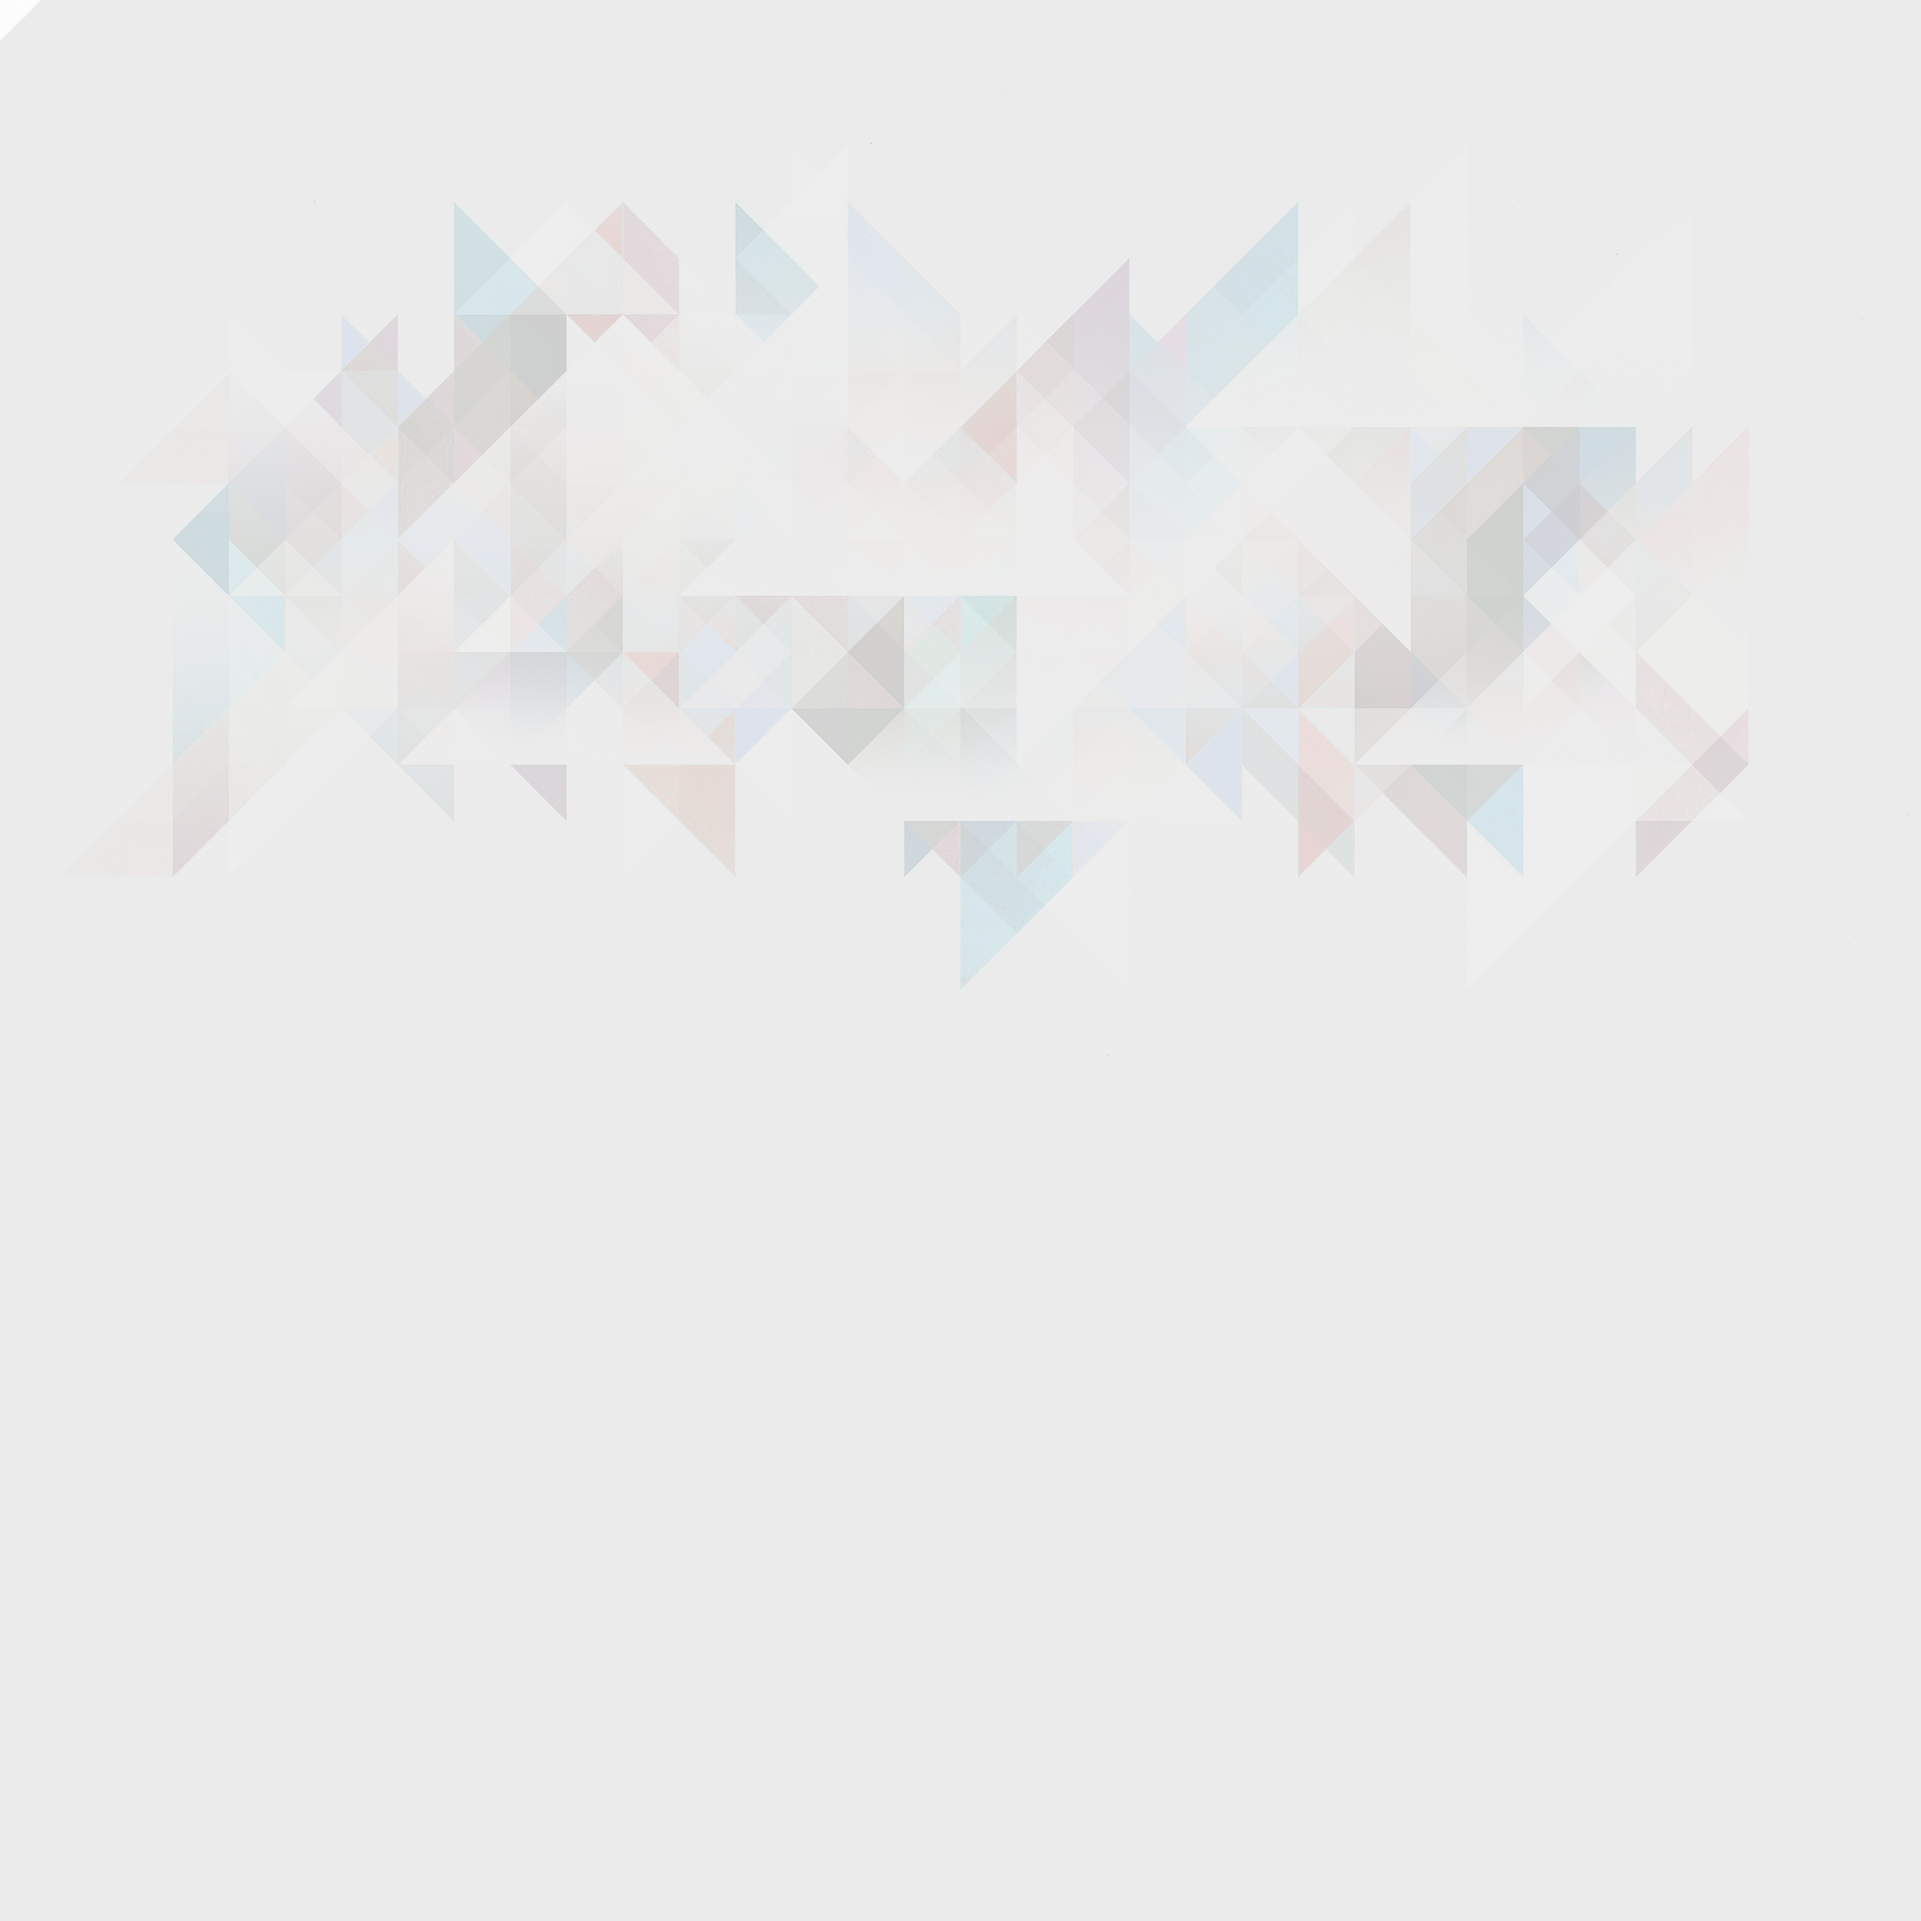
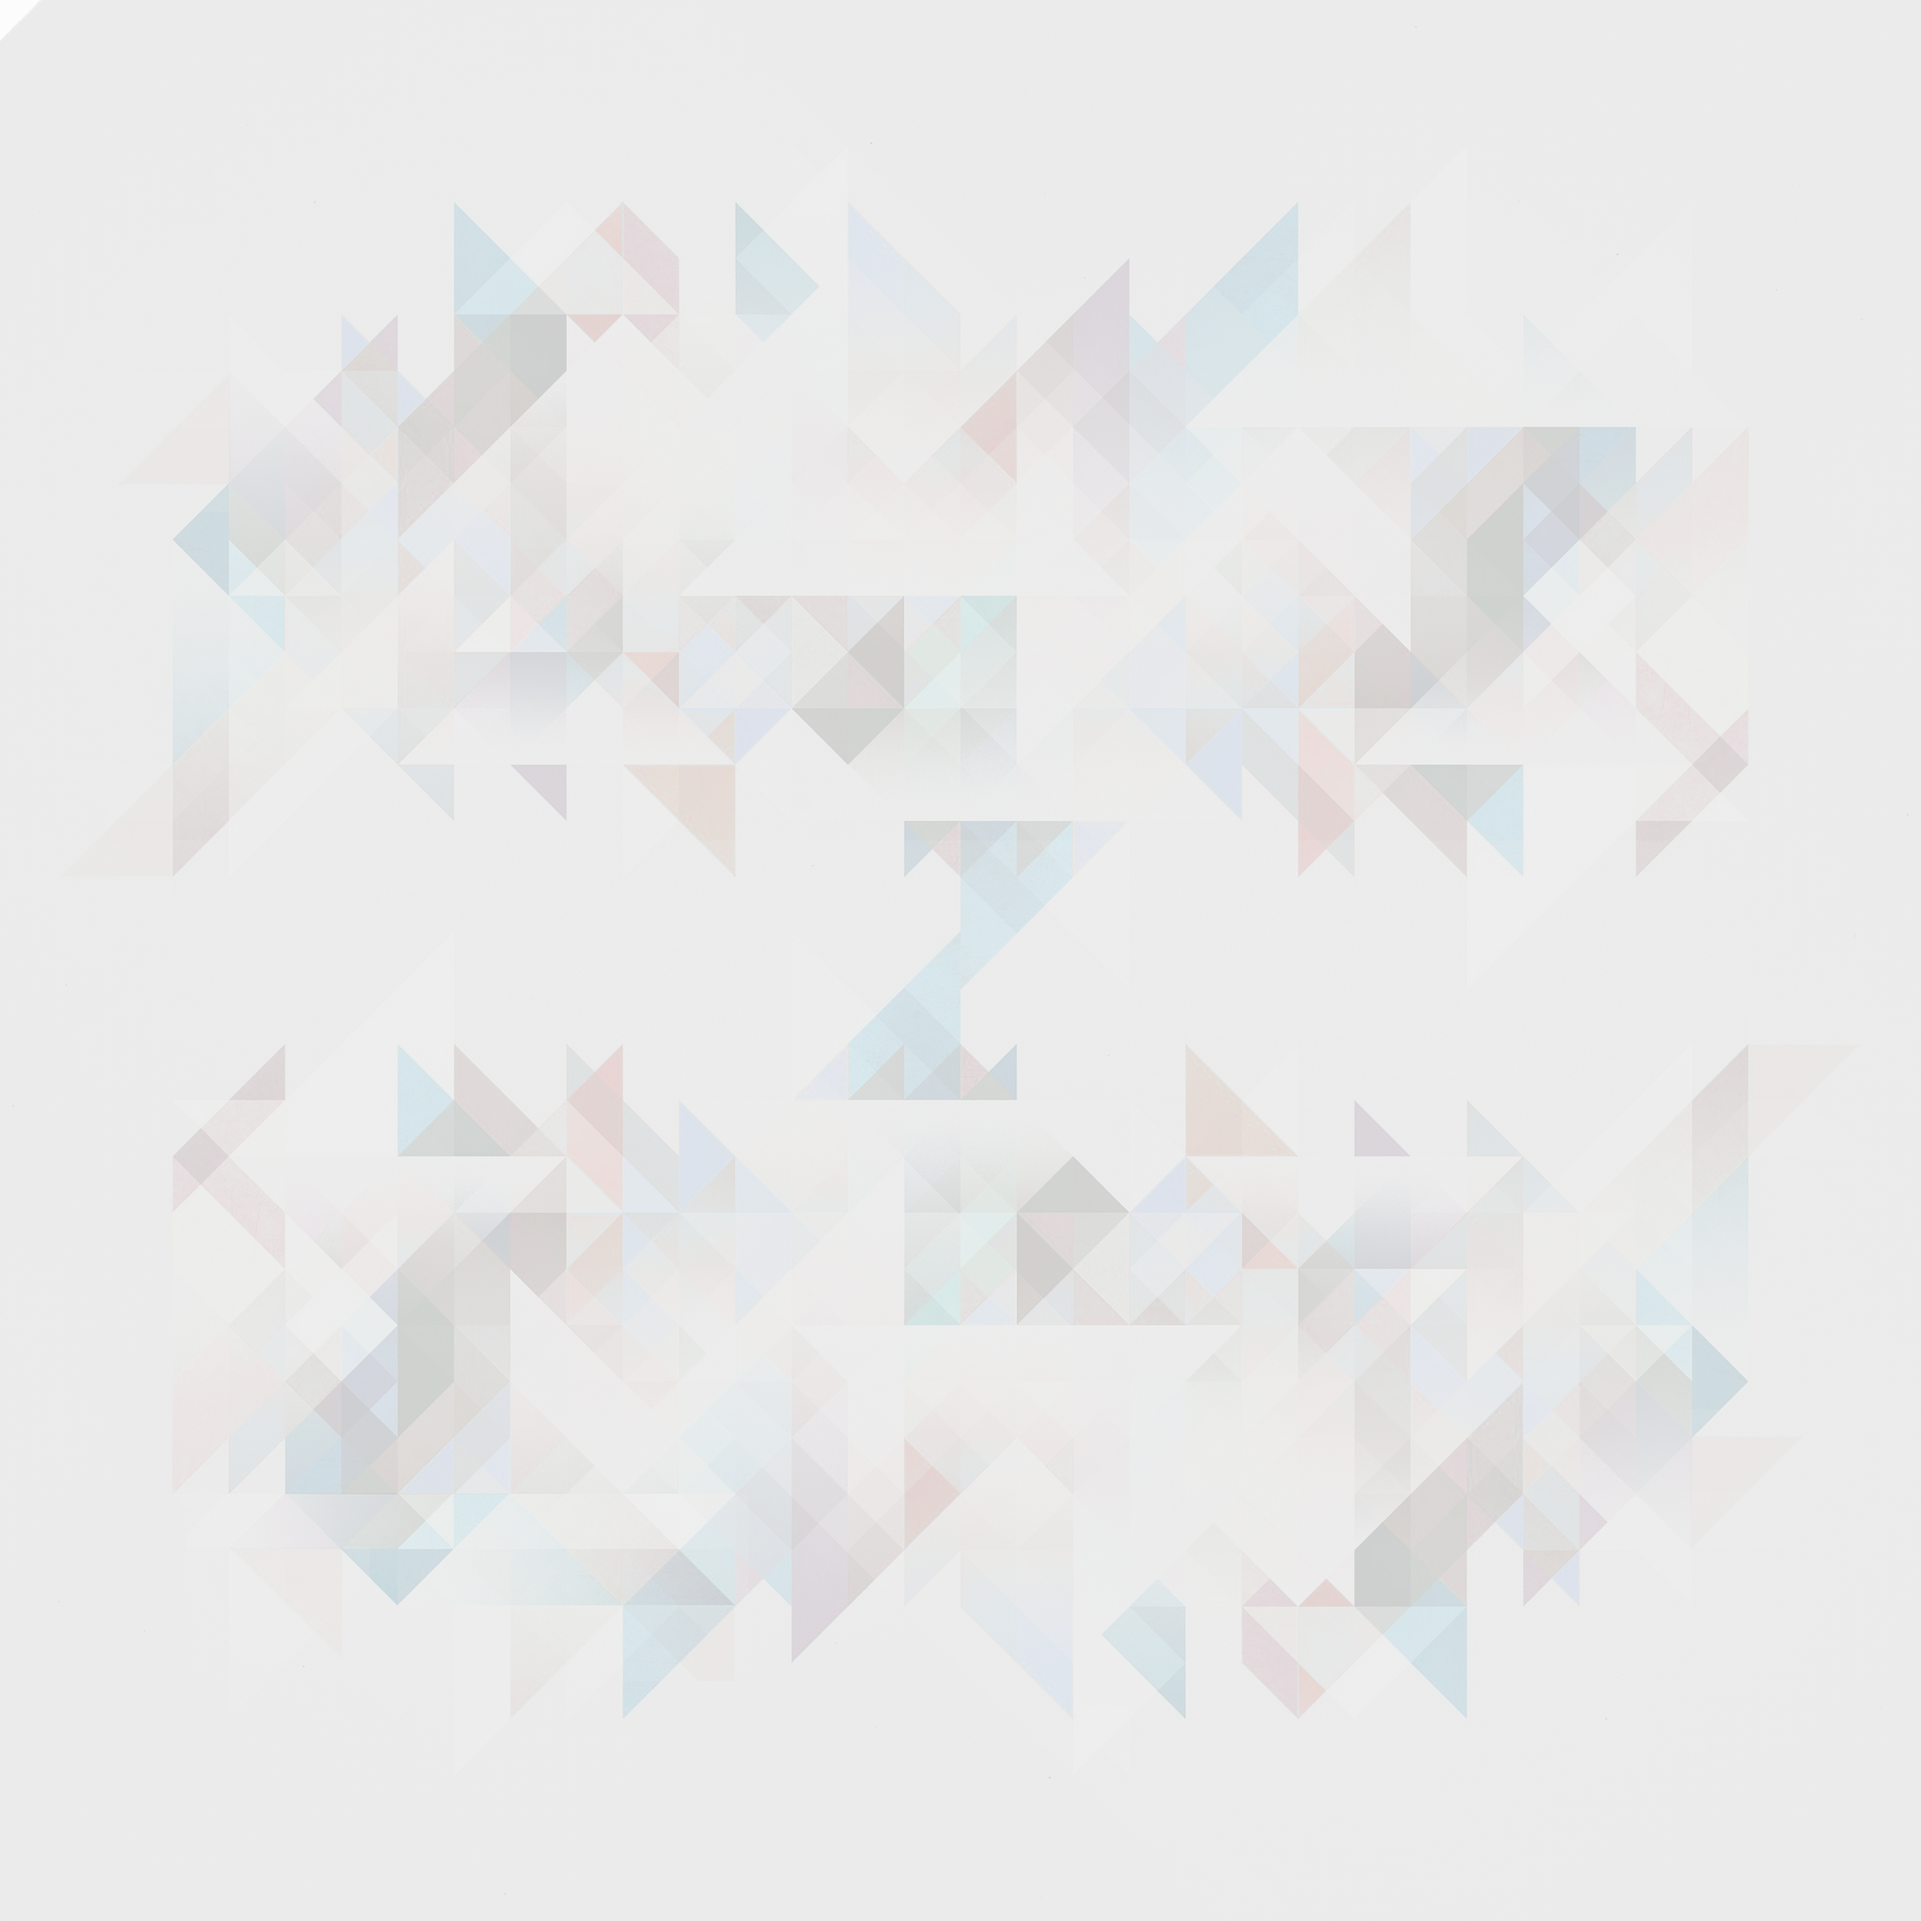
- Добавлена карта - Изменён задний фон

diff --git a/src/main/resources/templates/map.html b/src/main/resources/templates/map.html
@@ -1,0 +1,61 @@
+<!DOCTYPE html>
+<html lang="ru" xmlns:th="http://www.thymeleaf.org">
+<head>
+    <meta charset="UTF-8">
+    <meta name="viewport" content="width=device-width, initial-scale=1.0, viewport-fit=cover">
+    <title>V‑IATE — Карта</title>
+    <link href="https://fonts.googleapis.com/css2?family=Inter:wght@300;400;500;600;700&display=swap" rel="stylesheet">
+    <link href="/css/common.css" rel="stylesheet">
+    <link href="/css/schedule.css" rel="stylesheet">
+    <link href="/css/home.css" rel="stylesheet">
+    <link rel="icon" href="/images/favicon.ico">
+</head>
+<body>
+
+<header class="site-header">
+    <div class="header-container">
+        <a href="/" class="logo-link">
+            <img src="/images/logo.png" alt="V-IATE" class="logo-img">
+        </a>
+        <nav class="main-nav">
+            <ul class="nav-list">
+                <li><a href="/" class="nav-link active">Главная</a></li>
+                <li><a href="/group" class="nav-link">Расписание</a></li>
+                <li><a href="/course_lobby" class="nav-link">Курсы</a></li>
+                <li><a href="/journal" class="nav-link">Журналы</a></li>
+            </ul>
+        </nav>
+        <div class="user-actions">
+            <a th:if="${user_name == null}" href="/login" class="btn-login">Вход</a>
+            <div th:if="${user_name != null}" class="user-profile">
+                <span class="user-greeting" th:text="${user_name}"></span>
+                <a href="/profile" class="profile-link">
+                    <img src="/images/user.png" alt="Профиль" class="user-avatar">
+                </a>
+                <a href="/logout" class="logout-link">Выйти</a>
+            </div>
+        </div>
+    </div>
+</header>
+
+<main class="main-content">
+    <div class="groups-page">
+        <div class="map-container">
+            <img class="map-image" src="images/map_scheme.png">
+        </div>
+    </div>
+</main>
+
+<footer class="site-footer">
+    <div class="footer-inner">
+        <p class="copyright">© 2025–2026 V‑IATE — Студенческий портал</p>
+        <div class="footer-links">
+            <a href="#">О проекте</a>
+            <a href="#">Поддержка</a>
+            <a href="#">Конфиденциальность</a>
+        </div>
+    </div>
+</footer>
+
+</body>
+</html>

diff --git a/src/main/resources/static/css/home.css b/src/main/resources/static/css/home.css
@@ -108,6 +108,10 @@
     display: grid;
     grid-template-columns: repeat(auto-fill, minmax(300px, 1fr));
     gap: 1.5rem;
+    max-height: 70vh;
+    overflow-y: auto;
+    scrollbar-color: rgba(255, 255, 255, 0.2) rgba(255, 255, 255, 0.1);
+    scrollbar-width: thin;
 }
 
 .news-card {
@@ -120,6 +124,7 @@
     text-decoration: none;
     display: block;
     box-shadow: 0 10px 20px -12px var(--success-green);
+    margin-top: 2%;
 }
 
 .news-card:hover {
@@ -234,4 +239,19 @@
         opacity: 1;
         transform: translateY(0);
     }
+}
+
+.map-container {
+    backdrop-filter: blur(18px);
+    border: 2px solid var(--border-glass);
+    border-radius: 15px;
+    padding: 1.5rem;
+    transition: all 0.2s;
+    box-shadow: 0 10px 20px -12px var(--success-green);
+    width: 80%;
+    align-self: center;
+}
+
+.map-image {
+    width: 100%;
 }

diff --git a/src/main/resources/templates/index.html b/src/main/resources/templates/index.html
@@ -69,7 +69,7 @@
                     <h2 class="section-title">Моё расписание</h2>
                     <div class="section-decor"></div>
                 </div>
-                <div  class="groups-align" style="border: none; ">
+                <div  class="groups-align" style="border: none; width: 100% ">
                     <div class="flex-buttons">
                         <a th:class="button-href" th:href="@{/schedule/{id}(id=${group_id})}" th:text="${group_name}"></a>
                     </div>
@@ -101,6 +101,12 @@
                 <a href="/news" class="btn-more-news">Все новости →</a>
             </div>
         </section>
+    </div>
+
+    <div class="groups-page">
+        <div class="map-container">
+            <img class="map-image" src="images/map_scheme.png">
+        </div>
     </div>
 </main>
 

diff --git a/src/main/resources/static/css/common.css b/src/main/resources/static/css/common.css
@@ -25,6 +25,8 @@
 html {
     scroll-behavior: smooth;
     height: 100%;
+    scrollbar-color: rgba(255, 255, 255, 0.2) rgba(255, 255, 255, 0.1);
+    scrollbar-width: thin;
 }
 
 body {

diff --git a/src/main/java/com/AVASPP/VIATE/controller/MapController.java b/src/main/java/com/AVASPP/VIATE/controller/MapController.java
@@ -1,0 +1,16 @@
+package com.AVASPP.VIATE.controller;
+
+import jakarta.servlet.http.HttpSession;
+import org.springframework.stereotype.Controller;
+import org.springframework.ui.Model;
+import org.springframework.web.bind.annotation.*;
+
+
+@Controller
+public class MapController {
+
+    @GetMapping("/map")
+    public String map(HttpSession session, Model model) {
+        return "map";
+    }
+}
